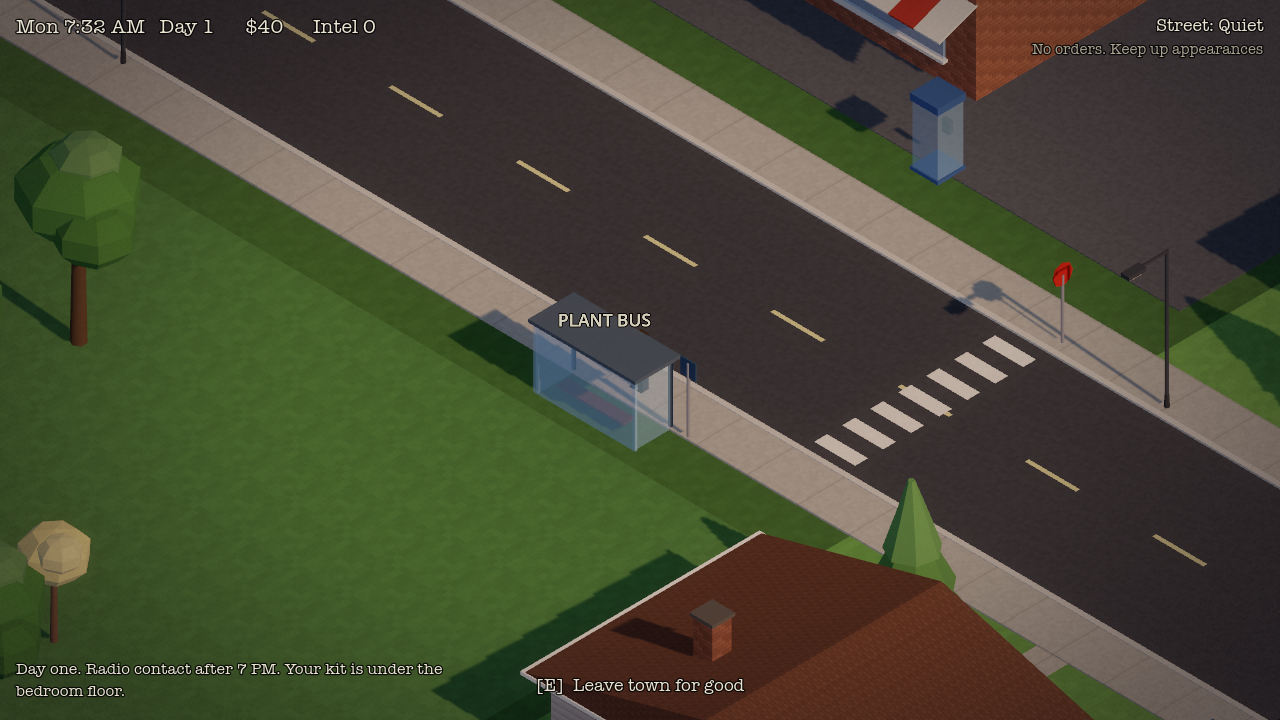
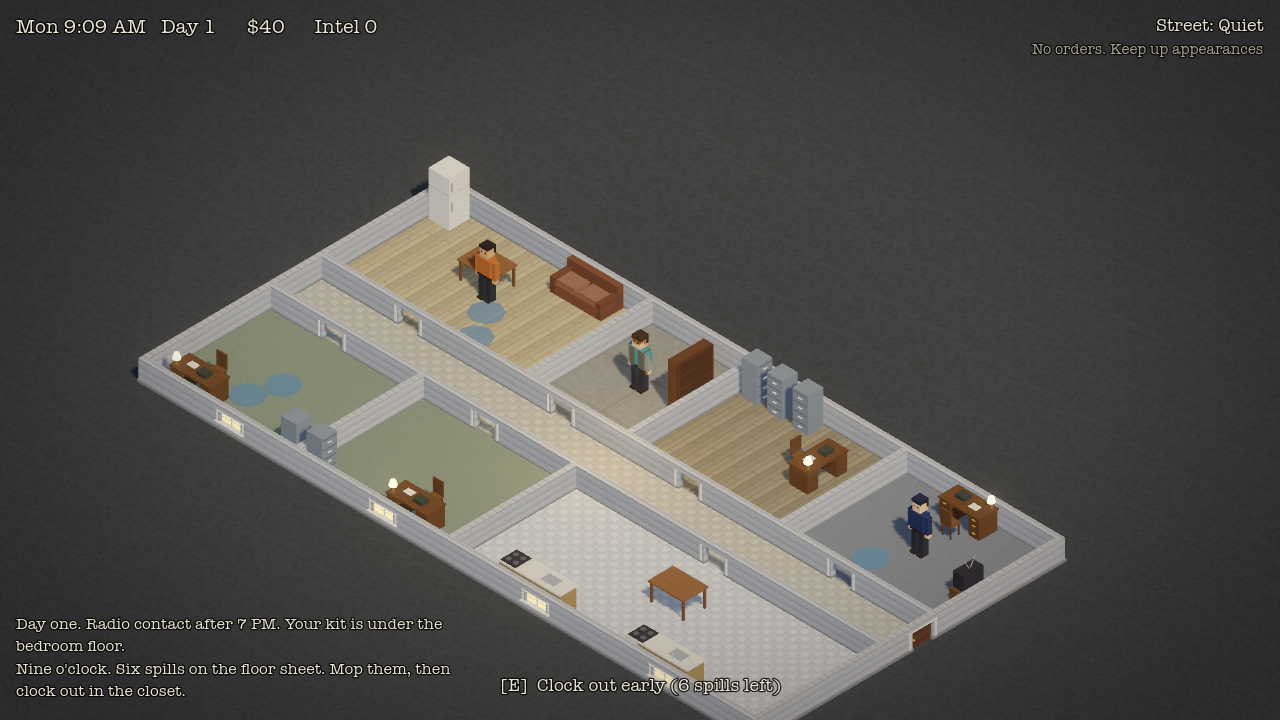
Ideas backlog, report and notes for the graphics pass

diff --git a/docs/ideas.md b/docs/ideas.md
@@ -1,0 +1,88 @@
+# Maple Street — ideas
+
+Nothing here is built unless it says so. Size is a rough guess: S is an evening, M is a day or
+two, L is a week or more.
+
+## 1. Saved for later (from the side chat, 2026-10-09)
+
+The owner liked all of these and asked for them to wait.
+
+| Idea | Status |
+|---|---|
+| Counter-agent as a slow burn with tells | Built. He watches first and comes out at night once the street is uneasy |
+| Feed the counter-agent false leads | Saved. Not built |
+| Traces: moved objects | Built as "disturbed" containers that you tidy before leaving |
+| Traces: lights left on, muddy footprints | Saved |
+| Weather: rain covers noise | Built |
+| Weather: snow keeps footprints; hot nights mean open windows and people on porches | Saved |
+| Disguises: janitor uniform inside the plant, meter-reader outfit for gardens by day | Saved |
+| Morning newspaper reporting what the street noticed | Built, with the day's weather forecast |
+| Burn bag: a fast way to destroy everything at once | Partly built. You can burn items one at a time at the kitchen sink |
+| Neighbourhood watch meeting that shows who suspects whom | Saved |
+| Mouse controls alongside WASD | Saved. The game is keyboard-only for now |
+
+## 2. New ideas to choose from
+
+### My top six
+
+If I had to pick, these give the most game for the least work, in this order.
+
+| # | Idea | Why | Size |
+|---|---|---|---|
+| 1 | **Cut the telephone line** | Snip a house's line at the outside box before a job. Nobody inside can phone the police; they have to run to a neighbour, which buys you time. The cut is found next day | S |
+| 2 | **Stakeout and an annotated street map** | Sit at your window or in your car with binoculars and let time run. Everything you see (who left when, which lights, which dog) is drawn onto a hand-sketched map of the street in your notebook | M |
+| 3 | **Fixed weekly habits** | Church on Sunday morning empties half the street for two hours. Thursday is bowling night. Friday is poker at one house. Routines you can learn and plan a week around | S |
+| 4 | **Away on holiday, and house-sitting** | A family leaves for a week. Papers pile up on the step. If they like you they ask you to water the plants and hand you a key, which is legitimate access to a target's house | M |
+| 5 | **Frame a neighbour** | Plant contraband in someone else's house and tip off the Bureau. The investigator goes after them and heat on you drops. It can go wrong if you are seen, and it is a nasty thing to do to someone you chatted with | M |
+| 6 | **Notes from the last agent** | When an agent is caught, the next one finds a few of their notes hidden in the house: a neighbour's secret, a warning about a dog. Permadeath stays, but each run leaves something behind | S |
+
+### Tradecraft
+
+| Idea | What it adds | Size |
+|---|---|---|
+| Signal marks | A chalk mark on a lamp post tells the Centre a drop is loaded or that you are in trouble. Forget it and the drop sits uncollected | S |
+| Losing a tail | When the investigator follows you, a drop made in his sight is compromised. Shake him first: through the market, round the park | M |
+| Safe combinations | Safes open with a number found elsewhere in the house (a birthday on a card, a note in a wallet), as the quiet alternative to cracking | S |
+| More tools | Glass cutter (quiet, leaves a hole), crowbar (fast, loud), sleeping pills for a dog's dinner, chloroform for a silent takedown from the front | M |
+| Forged pass | Make a plant pass at your bench to get into the restricted wing during a shift | M |
+| Alibis | Being seen somewhere public at the time of an incident takes suspicion off you afterwards | S |
+| Photographing people | Use the camera on the street: who visits whom, the affair in the car. Photos make leaning on someone far more likely to work | M |
+
+### The street
+
+| Idea | What it adds | Size |
+|---|---|---|
+| Regular callers | A mailman, a paperboy at dawn, a milkman. Moving witnesses on fixed rounds, and a mail delivery you can intercept | M |
+| Friendships | Neighbours you chat with often become friends: they vouch for you to the investigator, and argue with neighbours who suspect you | M |
+| Your own upkeep | Mow the lawn, put the bins out on Tuesday, pay bills. A neglected house draws eyes. Keeps daytime busy | S |
+| Seasons and holidays | Halloween (a mask is a free disguise for one night), Fourth of July fireworks (noise cover), Christmas lights, snow | L |
+| Power cut | A storm takes the street's lights out for an evening. Total darkness, everyone home, candles in windows | S |
+| A second sleeper | One neighbour also works for the Centre, or for a rival service. You find each other by signals, and may be ordered to help or remove them | L |
+| Cats and friendly dogs | A dog you feed every day stops barking at you for good. A cat that follows you into a house you are robbing | S |
+
+### The plant
+
+| Idea | What it adds | Size |
+|---|---|---|
+| A bigger plant | A restricted wing, guard routes, a vault. Jobs that take place at work, where everyone knows your face | L |
+| Night shift | A promotion (or a favour) moves you to nights: fewer people, more access, but your nights on the street are gone | M |
+| Security review | When heat is high the plant interviews staff. Your answers have to match what neighbours have said about you | M |
+
+### Pressure and story
+
+| Idea | What it adds | Size |
+|---|---|---|
+| Hard orders | The Centre tells you to burn an asset, or to deal with a neighbour who knows too much. Refusing costs their trust | M |
+| Defecting | Walk up to the dark sedan and offer a deal. A different ending, and a different game if it carries on as a double agent | L |
+| Your own tells | The counter-agent learns habits. The same route to the park every night makes him sure faster, so you have to vary it | S |
+| Ranked endings | Leaving town is scored: a medal and a flat in Moscow, a quiet pension, or abandoned at the border | S |
+| Difficulty settings | Sharper or duller neighbours, longer or shorter days, permadeath off for a first run | S |
+
+### Home and comfort
+
+| Idea | What it adds | Size |
+|---|---|---|
+| Basement and false wall | A real hidden room for the radio, the bench and a corkboard of the street with photos and string | M |
+| Police scanner | Hear when a call goes out and where the patrol car is heading | S |
+| Driving | Take the car to town: a bar, the bowling alley, the motel. Tail a neighbour to see where they go on Thursday afternoons | L |
+| A second person in the house | Already in the design as "later": a partner agent as lookout, or a family who must never know | L |

diff --git a/docs/report.md b/docs/report.md
@@ -19,6 +19,31 @@ Built overnight on 2026-10-09 from the design in
 | Sound: footsteps, doors, lockpicks, barks, alarm stings, radio static, siren, rain, crickets (all synthesised) | Built |
 | Save on sleep, permadeath, title menu, end screen, desktop shortcut | Built |
 
+## Graphics and ambience pass (second session, same night)
+
+- **Houses:** clapboard siding, shingled roofs with fascia and brick chimneys (smoke when someone
+  is home in the evening), front porches with a light, shutters and curtains in a colour per
+  house, door panels and knobs, skirting, textured floors.
+- **Furniture:** every piece is drawn in detail (sofa cushions, bookshelves full of books, a
+  typewriter on the desk, a red safelight at your bench), plus rugs, lamps that light up, chairs
+  and pot plants.
+- **Gardens and street:** flower beds, shrubs, rail fences, sheds, washing lines, vegetable
+  patches, kennels, toys, kerbs, crosswalks, telephone poles, a hydrant, a telephone box, three
+  kinds of tree that sway slightly, boxy 1980s sedans and station wagons.
+- **Park and market:** stone-rimmed pond with reeds, a running fountain in a ring of flowers,
+  playground, park lamps, fireflies at dusk; a brick market with a striped awning and crates.
+- **People:** faces, shoes, belts, skirts, short sleeves, six hair styles, moustaches, glasses,
+  caps on the kids, a slight walking bob.
+- **Light:** colour through the day from a low orange dawn to golden hour to blue night, light
+  cones and moths under street lamps, television flicker in living rooms, lightning in storms,
+  a soft vignette and a trace of film grain.
+- **Interface:** typewriter lettering throughout.
+- **Sound:** birdsong by day, wind, a quiet night score that turns tense when someone is
+  watching you, thunder, and the plant whistle at 7 AM and 5 PM on weekdays.
+
+Frame rate after this pass, vsync off on this Mac: 160 to 270 fps. The 17 tests still pass.
+Ideas saved for later and new ones to choose from are in `docs/ideas.md`.
+
 ## What has been checked, and how
 
 - `tools/dev/check.sh` runs 16 tests. They build the real street and drive it: routines over a
@@ -28,7 +53,7 @@ Built overnight on 2026-10-09 from the design in
 - Screenshots were taken of the street by day and night, interiors, every panel, the plant, the
   barbecue, rain and the police.
 - The desktop shortcut was launched once and opened the game.
-- Frame rate with vsync off on this Mac: 230 to 330 fps, day, night and indoors.
+- Frame rate with vsync off on this Mac was 230 to 330 fps before the graphics pass (160 to 270 after).
 - A simulated week with nobody at the controls ran through the daily turnover, the Bureau's
   arrival and a house search without errors.
 
@@ -36,7 +61,8 @@ Built overnight on 2026-10-09 from the design in
 
 - **Nobody has played it by hand.** Movement, doors and prompts were exercised by scripts, but
   feel, pacing and difficulty are untested by a person. Expect the numbers below to need tuning.
-- Sound was generated and wired up but never listened to.
+- Sound, including the new ambience and score, was generated and wired up but never listened to.
+  Volumes are a guess; they are set in `Sfx.ambience` and at each `Sfx.play` call.
 - A run longer than a few simulated days has not been played through.
 
 ## Numbers most likely to need tuning

diff --git a/CLAUDE.md b/CLAUDE.md
@@ -22,8 +22,9 @@ made by code; there are no art or audio files.
 - `game/main.gd` builds everything and owns the per-frame context (`Game.ctx`: what the player is
   doing, read by `Rules.judge`).
 - `game/core`: autoloads `Clock`, `Game` (run state), `Sfx` (synthesised sounds); `Save`; `Demo`.
-- `game/world`: `Templates` (floor plans as data), `House`, `Portal` (doors, windows), `Street`
-  (map + navmesh), `Build` (box helpers, physics layers).
+- `game/world`: `Templates` (floor plans as data), `House`, `Furnish` (how each piece of furniture
+  is drawn), `Portal` (doors, windows), `Street` (map + navmesh), `Build` (shared meshes and
+  materials, generated detail textures, the faceted foliage shader, physics layers).
 - `game/actors`: `Figure`, `Player`, `Walker` (path following + sight), `Neighbour`, `Dog`.
 - `game/systems`: `Cast` (who lives where, from a seed), `Rules` (pure judgement functions),
   `Missions`, `Law` (inspections, police, investigator, searches), `Life` (needs, days, weather,
@@ -52,6 +53,16 @@ godot --headless --path . --script tools/gen_icon.gd   # regenerate icon.png
 - `Neighbour.visible` means "on the map" (false while away). Use `figure.visible` for drawing.
 - Saves use `var_to_str`, and containers and portals are restored by position in a list, so the
   street must be rebuilt from the same seed before `Save.apply`.
+
+## Look
+- Detailed but low-poly: boxes, cylinders and faceted blobs only, flat colour plus small generated
+  greyscale textures (`Build.texture`) that the material colour tints. No image files.
+- Use `Build.box/cyl/leaf` so meshes and materials are shared; do not create a new material per
+  object. Decorative pieces get no collider, so they cannot change the navmesh.
+- Volumetric fog does not work with the orthographic camera (it blacks the scene out). Lamp cones
+  are additive meshes instead (`Street._shaft`).
+- Ideas the owner has parked, and candidates for next: `docs/ideas.md`. Do not build from that
+  list without being asked.
 
 ## Review gates
 The owner judges look and feel from screenshots or by playing. Do not call a visual or feel change
